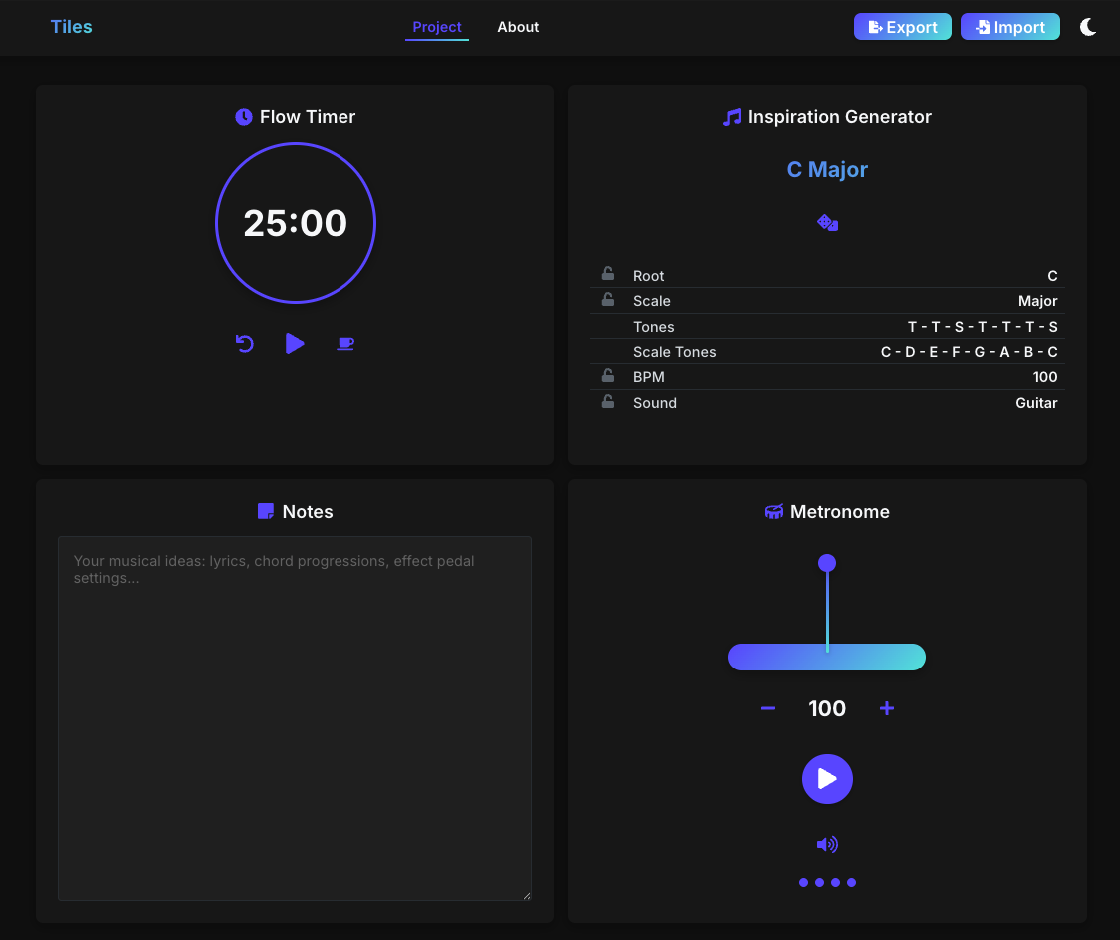
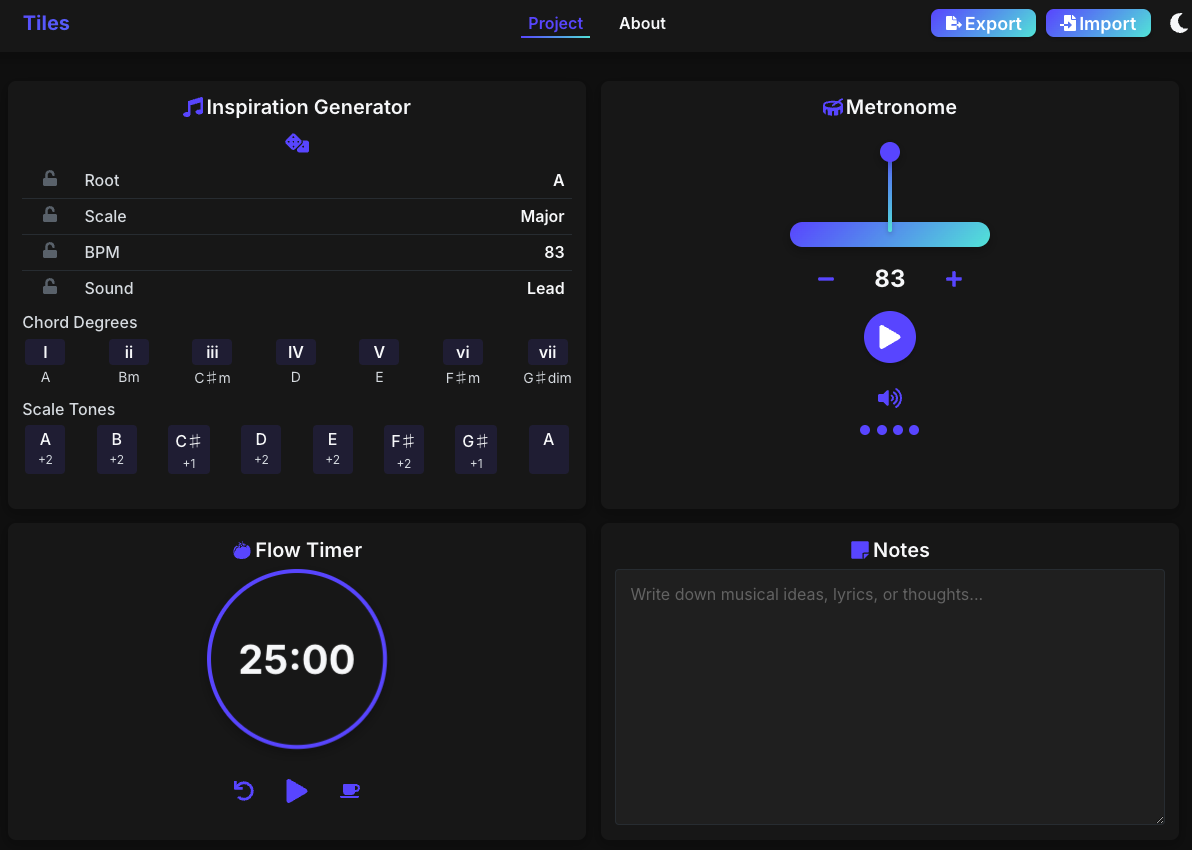
UI improvements: Add spacing between sections and improve textarea layout

diff --git a/src/pages/About/About.tsx b/src/pages/About/About.tsx
@@ -1,7 +1,7 @@
 import React from 'react';
 import styled from 'styled-components';
 import { motion } from 'framer-motion';
-import { FaGithub, FaReact, FaNodeJs } from 'react-icons/fa';
+import { FaGithub, FaReact, FaNodeJs, FaIcons } from 'react-icons/fa';
 import { Container, Card, CardHeader, CardTitle, CardIconWrapper } from '../../components/common/StyledComponents';
 import { Icon } from '../../utils/IconHelper';
 
@@ -146,7 +146,7 @@ const AboutPage = () => {
           <SectionTitle>Features</SectionTitle>
           <List>
             <ListItem>
-              <Strong>⏲ Flow Timer:</Strong> 
+              <Strong>🍅 Flow Timer:</Strong> 
               <NestedList>
                 <ListItem>A simple Pomodoro-style timer to help you stay focused while writing, practicing, or producing.</ListItem>
               </NestedList>
@@ -160,13 +160,13 @@ const AboutPage = () => {
             <ListItem>
               <Strong>🎶 Metronome:</Strong>
               <NestedList>
-                <ListItem>A smooth, visual metronome with BPM controls to keep you in perfect time.</ListItem>
+                <ListItem>Follows the BPM from the Inspiration Generator, with manual adjustment in 1-step increments.</ListItem>
               </NestedList>
             </ListItem>
             <ListItem>
               <Strong>📝 Notes:</Strong>
               <NestedList>
-                <ListItem>Capture lyrics, chord progressions, FX pedal settings, etc'...</ListItem>
+                <ListItem>Write down lyrics, chord progressions, FX pedal settings, etc'...</ListItem>
               </NestedList>
             </ListItem>
             <ListItem>
@@ -207,11 +207,20 @@ const AboutPage = () => {
               <IconContainer><Icon icon={FaNodeJs} size={16} /></IconContainer>
               Node.js
             </TechItem>
+            <TechItem>
+              <IconContainer><Icon icon={FaIcons} size={16} /></IconContainer>
+              React Icons
+            </TechItem>
           </TechList>
           <Paragraph style={{ marginTop: '1rem' }}>
             <StyledLink href="https://www.npmjs.com/package/tone" target="_blank" rel="noopener noreferrer">
               Tone.js
             </StyledLink> Audio engine for the metronome.
+          </Paragraph>
+          <Paragraph>
+            <StyledLink href="https://react-icons.github.io/react-icons/" target="_blank" rel="noopener noreferrer">
+              React Icons
+            </StyledLink> providing Font Awesome, Game Icons and more icon collections.
           </Paragraph>
         </Section>
       </AboutCard>

diff --git a/src/components/Notepad/Notepad.tsx b/src/components/Notepad/Notepad.tsx
@@ -26,11 +26,11 @@ const StyledTextArea = styled(TextArea)`
   min-height: 150px;
   flex: 1;
   font-family: 'Inter', 'Roboto', sans-serif;
-  padding: ${({ theme }) => theme.spacing.sm};
+  padding: ${({ theme }) => theme.spacing.md};
   
   @media (max-width: 768px) {
     min-height: 120px;
-    padding: ${({ theme }) => theme.spacing.xs};
+    padding: ${({ theme }) => theme.spacing.sm};
   }
 `;
 
@@ -76,7 +76,7 @@ export default function Notes({ notes, setNotes }: NotesProps) {
         name="newText"
         onChange={handleChange}
         value={text.newText}
-        placeholder="Your musical ideas: lyrics, chord progressions, effect pedal settings..."
+        placeholder="Write down musical ideas, lyrics, or thoughts..."
       />
     </NotesCard>
   );

diff --git a/src/components/pomodoroTimer/pomodoroTimer.tsx b/src/components/pomodoroTimer/pomodoroTimer.tsx
@@ -1,7 +1,8 @@
 import React, { useState, useEffect, useRef } from "react";
 import styled from 'styled-components';
 import { motion } from 'framer-motion';
-import { FaUndo, FaPlay, FaPause, FaCoffee, FaClock } from 'react-icons/fa';
+import { FaUndo, FaPlay, FaPause, FaCoffee } from 'react-icons/fa';
+import { GiTomato } from 'react-icons/gi';
 import ToolCard from '../common/ToolCard';
 import { Icon } from '../../utils/IconHelper';
 
@@ -109,7 +110,7 @@ export default function PomodoroTimer() {
   }, [isCounting, time]);
 
   return (
-    <ToolCard title="Flow Timer" icon={FaClock}>
+    <ToolCard title="Flow Timer" icon={GiTomato}>
       <TimerDisplay
         initial={{ scale: 0.9 }}
         animate={{ scale: 1 }}

diff --git a/src/components/common/StyledComponents.tsx b/src/components/common/StyledComponents.tsx
@@ -96,7 +96,7 @@ export const TextArea = styled.textarea`
   border-radius: ${({ theme }) => theme.borderRadius.small};
   color: ${({ theme }) => theme.colors.text};
   font-size: ${({ theme }) => theme.fontSizes.md};
-  padding: ${({ theme }) => theme.spacing.sm} ${({ theme }) => theme.spacing.md};
+  padding: ${({ theme }) => theme.spacing.md};
   transition: all ${({ theme }) => theme.transitions.fast};
   resize: vertical;
   min-height: 150px;

diff --git a/README.md b/README.md
@@ -1,22 +1,22 @@
 # Tiles — Tools for Creative Flow
 
-A simple set of tools to help musicians stay creative and focused.
+A set of tools to help musicians stay creative and focused.
 
 ## Live Version
 
-Check out the [live version](https://fxcircus.github.io/music-tools-studio) on GitHub pages or follow the [Local Installation](#local-installation) instructions
+Try [live version](https://fxcircus.github.io/music-tools-studio) on GitHub pages, or follow the [Local Installation](#local-installation) instructions.
 
 ![Tiles](public/tiles_app_screenshot_dark_2025.png)
 
 ## Features
 
-- **⏲ Flow Timer:** A Pomodoro-style timer to help you stay focused while writing, practicing, or producing.
+- **🍅 Flow Timer:** A Pomodoro-style timer to help you stay focused while writing, practicing, or producing.
 
 - **🎲 Inspiration Generator:** Randomize scales, BPM, and sounds. Lock in what you like and shuffle the rest.
 
-- **🎶 Metronome:** A smooth, visual metronome with BPM controls to keep you in perfect time.
+- **🎶 Metronome:** Follows the BPM from the Inspiration Generator, with manual adjustment in 1-step increments.
 
-- **📝 Notes:** Capture lyrics, chord progressions, FX pedal settings, etc'...
+- **📝 Notes:** Write down lyrics, chord progressions, FX pedal settings, etc'...
 
 - **💾 Save Your Work:** Export your project settings and notes to continue later or share with collaborators. Import previously saved projects with a single click.
 
@@ -29,6 +29,7 @@ Check out the [live version](https://fxcircus.github.io/music-tools-studio) on G
 - **🔀 Framer Motion** for fluid animations 
 - **🔊 Web Audio API**
 - **📦 Node.js**
+- **🎨 React Icons** with Font Awesome, Game Icons and more icon collections
 
 ## Local Installation
 
